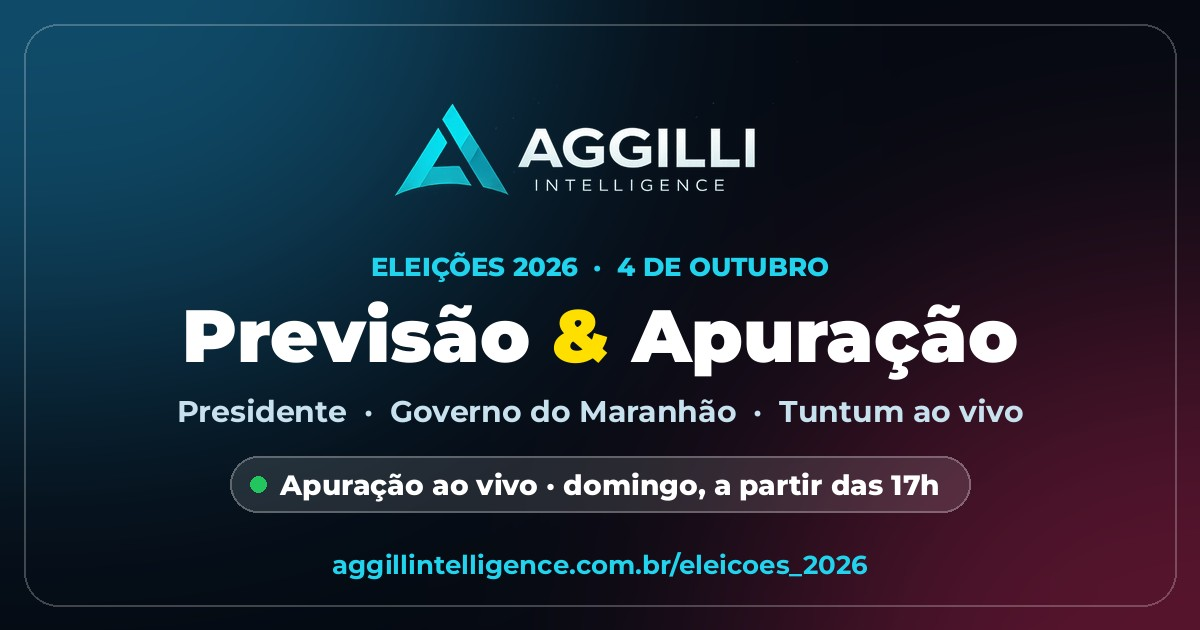
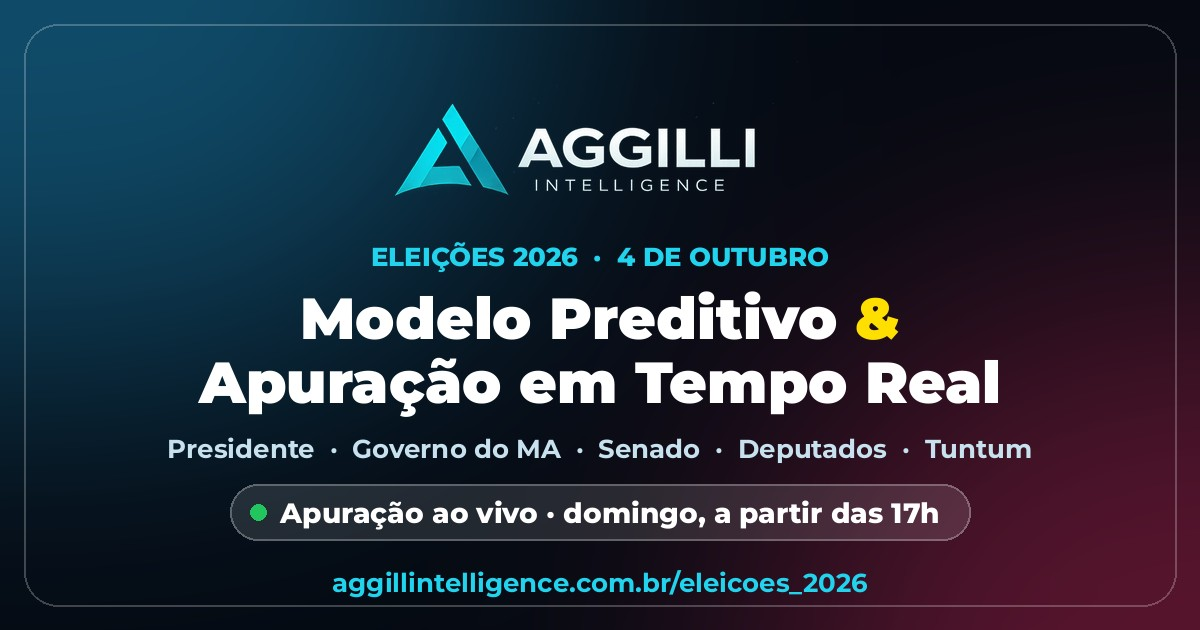
Página inicial: título 'Modelo Preditivo & Apuração em Tempo Real' (capa e miniatura)
Claude-Session: https://claude.ai/code/session_01DgTPwBDiq3uz4ygHttz2CA

Changed region(s): [[0.1233, 0.3921, 0.8633, 0.9651]]

diff --git a/apuracao/arte_inicio.py b/apuracao/arte_inicio.py
@@ -31,28 +31,27 @@ def gerar(w=1200, h=630):
     def centro(y, txt, fonte, cor):
         d.text(((w - d.textlength(txt, font=fonte)) / 2, y), txt, font=fonte, fill=cor)
 
-    centro(250, "ELEIÇÕES 2026  ·  4 DE OUTUBRO", _f(26, 800), CIANO)
-    f = _f(74, 900)
-    a, e, b = "Previsão ", "&", " Apuração"
-    x = (w - d.textlength(a + e + b, font=f)) / 2
-    d.text((x, 290), a, font=f, fill=BRANCO)
-    x += d.textlength(a, font=f)
-    d.text((x, 290), e, font=f, fill=(254, 223, 0))
-    d.text((x + d.textlength(e, font=f), 290), b, font=f, fill=BRANCO)
-    centro(392, "Presidente  ·  Governo do Maranhão  ·  Tuntum ao vivo", _f(30, 700), SUAVE)
+    centro(240, "ELEIÇÕES 2026  ·  4 DE OUTUBRO", _f(26, 800), CIANO)
+    f = _f(58, 900)
+    a, e = "Modelo Preditivo ", "&"
+    x = (w - d.textlength(a + e, font=f)) / 2
+    d.text((x, 282), a, font=f, fill=BRANCO)
+    d.text((x + d.textlength(a, font=f), 282), e, font=f, fill=(254, 223, 0))
+    centro(346, "Apuração em Tempo Real", f, BRANCO)
+    centro(432, "Presidente  ·  Governo do MA  ·  Senado  ·  Deputados  ·  Tuntum", _f(26, 700), SUAVE)
     # pílula
     txt = "Apuração ao vivo · domingo, a partir das 17h"
     fp = _f(28, 800)
     tw = d.textlength(txt, font=fp)
     x0 = (w - tw) / 2 - 40
     camada = Image.new("RGBA", (w, h), (0, 0, 0, 0))
-    ImageDraw.Draw(camada).rounded_rectangle((x0, 456, x0 + tw + 80, 512), 28, fill=(255, 255, 255, 30),
+    ImageDraw.Draw(camada).rounded_rectangle((x0, 484, x0 + tw + 80, 540), 28, fill=(255, 255, 255, 30),
                                              outline=(255, 255, 255, 90), width=2)
     img.alpha_composite(camada)
     d = ImageDraw.Draw(img)
-    d.ellipse((x0 + 20, 476, x0 + 36, 492), fill=(34, 197, 94))
-    d.text((x0 + 50, 467), txt, font=fp, fill=BRANCO)
-    centro(548, "aggillintelligence.com.br/eleicoes_2026", _f(26, 700), CIANO)
+    d.ellipse((x0 + 20, 504, x0 + 36, 520), fill=(34, 197, 94))
+    d.text((x0 + 50, 495), txt, font=fp, fill=BRANCO)
+    centro(566, "aggillintelligence.com.br/eleicoes_2026", _f(26, 700), CIANO)
     SAIDA.parent.mkdir(parents=True, exist_ok=True)
     img.convert("RGB").save(SAIDA, "JPEG", quality=90, optimize=True)
     return SAIDA

diff --git a/inicio.py b/inicio.py
@@ -74,7 +74,7 @@ else:
 st.markdown(f"""
 <div class="capa-inicio">
   <div class="ci-selo">ELEIÇÕES 2026 · 4 DE OUTUBRO</div>
-  <div class="ci-titulo">Previsão <span>&amp;</span> Apuração</div>
+  <div class="ci-titulo">Modelo Preditivo <span>&amp;</span><br>Apuração em Tempo Real</div>
   <div class="ci-texto">Modelo independente com pesquisas registradas, histórico oficial do TSE e 20 mil cenários
   simulados — e, no domingo, os votos do TSE em tempo real.</div>
   <div class="ci-contagem"><i></i>{contagem}</div>
@@ -123,8 +123,8 @@ if agora < INICIO_APURACAO:
               "Salve o link!")
 else:
     quando = "A apuração está AO VIVO, com atualização a cada 90 segundos."
-texto = ("🗳 Eleições 2026 com a Aggilli Intelligence: previsão para Presidente (Lula × Flávio) e Governo do "
-         "Maranhão (Braide × Orleans).\n\n💗 Vem torcer com a gente pela Bruna e pelo Time do Fernando! "
+texto = ("🗳 Eleições 2026 com a Aggilli Intelligence: modelo preditivo para Presidente (Lula × Flávio) e Governo do "
+         "Maranhão (Braide × Orleans) e apuração em tempo real.\n\n💗 Vem torcer com a gente pela Bruna e pelo Time do Fernando! "
          + quando + "\n\n👉 Acompanhe aqui:\n" + LINK)
 ARTE = "inicio_aggilli.jpg"  # miniatura da Aggilli (gerada por apuracao/arte_inicio.py)
 wa = f"https://wa.me/?text={quote(texto)}"
@@ -150,7 +150,7 @@ with st.container(key="compartilhar_inicio"):
   #msg {{text-align: center; font-size: 12px; color: #3A4458; min-height: 16px; margin-top: 4px;}}
 </style>
 <a href="{wa}" target="_blank" rel="noopener"><img class="mini" src="/app/static/compartilhar/{ARTE}"
-   alt="Eleições 2026 · Previsão & Apuração · Aggilli Intelligence"></a>
+   alt="Eleições 2026 · Modelo Preditivo & Apuração em Tempo Real · Aggilli Intelligence"></a>
 <div class="ic">
   <a href="{wa}" target="_blank" rel="noopener" title="Compartilhar no WhatsApp">
     <img src="/app/static/icones/whatsapp.png" alt="WhatsApp"><span>WhatsApp</span></a>
